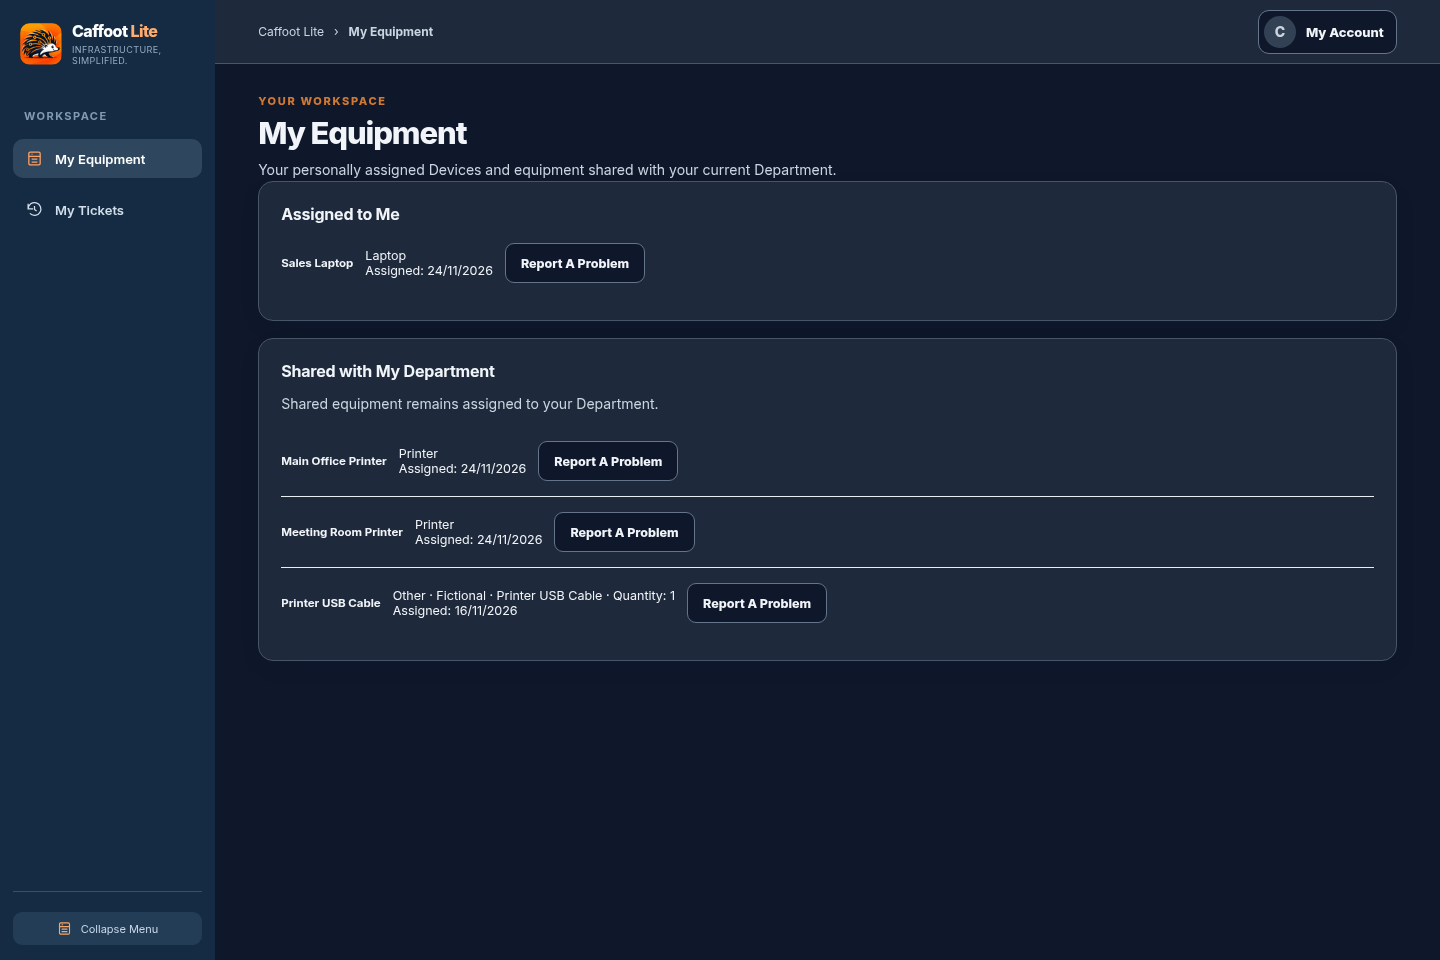
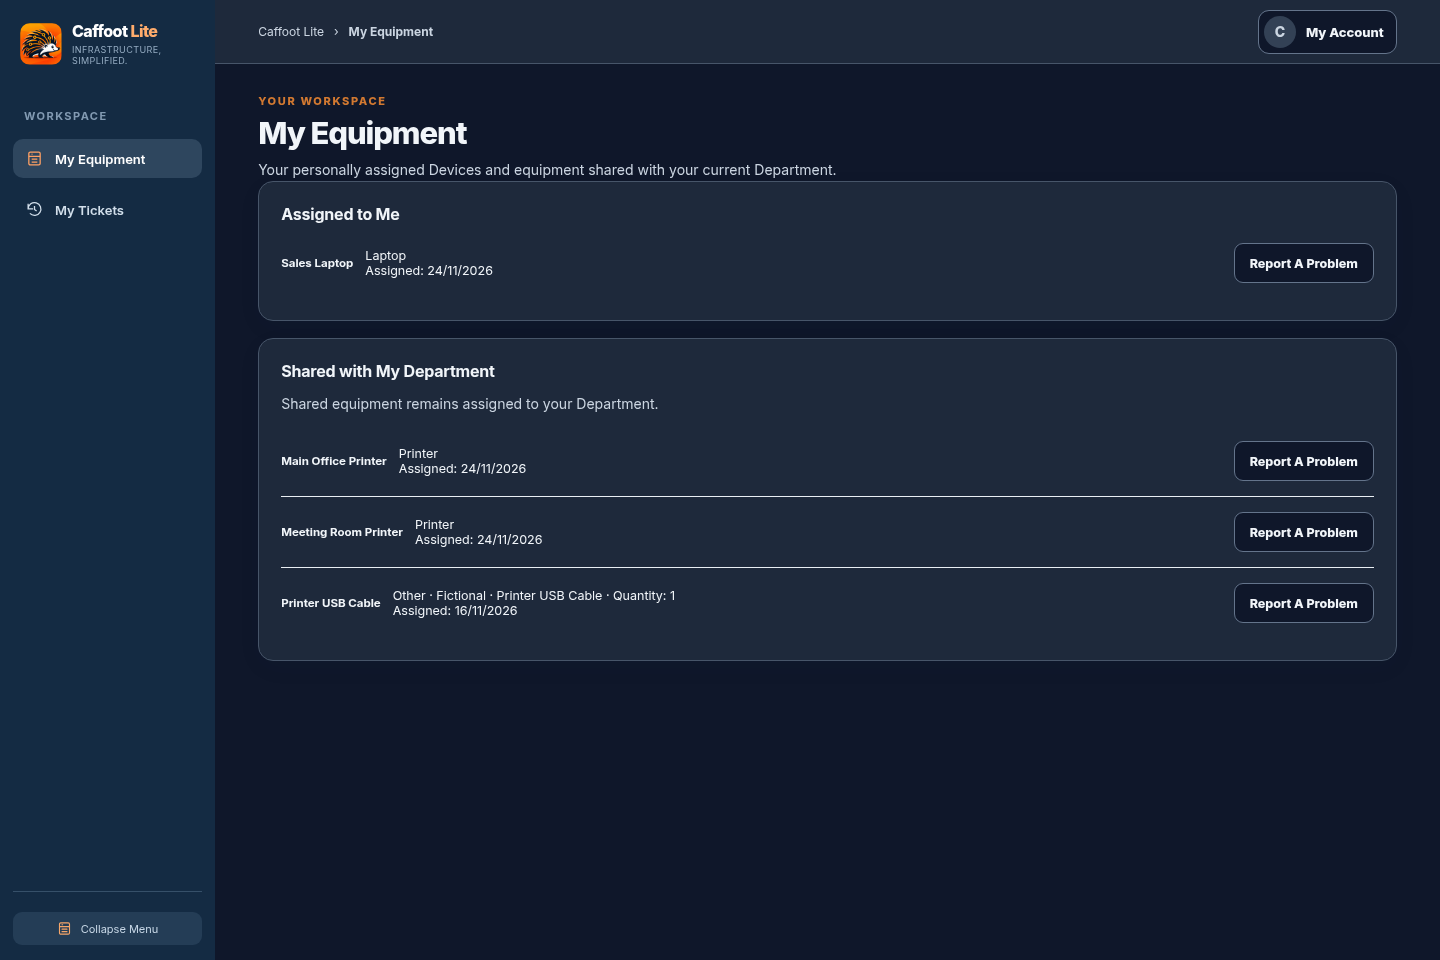
Refresh My Equipment screenshots and provenance

diff --git a/docs/development-handovers/evidence/stage-6-4/README.md b/docs/development-handovers/evidence/stage-6-4/README.md
@@ -6,6 +6,8 @@ The review starts from `957969ba1b44465472765e47f91117ca7c87d177` on `milestone-
 
 The accessory custody follow-up refreshed Department Details Equipment, My Equipment and Department Tickets and added the accessory confidentiality warning. All 16 captures in that batch use [`e3676087588e1f5c9f96f1a1012ee8841ff918ea`](https://github.com/Caffoot/Caffoot-Lite/commit/e3676087588e1f5c9f96f1a1012ee8841ff918ea).
 
+The four My Equipment captures now use [`5db6483cdf5c7811f53e50fd6235f2233ad6d24c`](https://github.com/Caffoot/Caffoot-Lite/commit/5db6483cdf5c7811f53e50fd6235f2233ad6d24c). The mobile captures include the full page so every **Report A Problem** button is visible. [Owner layout approval](https://github.com/Caffoot/Caffoot-Lite/pull/447#issuecomment-7131740887)
+
 ## Application Screenshots
 
 The captures use the running Caffoot Lite application over loopback HTTPS in Chromium 156.0.8078.79. The test seeds fictional accounts, Departments, Devices and a printer ticket raised before Sales shares the Device. The accessory follow-up includes a USB cable originally issued to Accounts and explicitly associated with that printer. It uses the real UI to raise a ticket for the cable as a Sales employee. Desktop viewports are 1440 × 960 and mobile viewports are 390 × 844. Department Tickets uses full-page capture so the ticket list appears on mobile. [Capture manifest with source and image hashes](capture-manifest.json) · [Chromium test](../../../../tests/shared-devices-interface.cjs) · [Frozen design references](https://github.com/Caffoot/Caffoot-Lite/issues/431#issuecomment-7129171072)
@@ -43,6 +45,8 @@ node tests/shared-devices-interface.cjs
 The focused follow-up Chromium check verified both history headings, table columns and record order. The four affected captures were refreshed. All 36 focused backend tests passed, including the existing exact role migration assertion. Schema 29 skips empty inserts that would otherwise initialise zero-valued SQLite sequence entries, while preserving the original high-water marks. [Owner visual correction](https://github.com/Caffoot/Caffoot-Lite/pull/447#issuecomment-7130128114)
 
 The accessory follow-up passed 72 focused backend tests. Live HTTP and loopback SMTP covered original Department and custody stock recipients, historical IT-only tickets, current-custody ticket access, replies, direct attachments, queued delivery after removal and re-addition, and the effect of stock return. Standalone assets and canonical Device tickets served as controls. The focused Chromium run checked both accessory ticket entry points and captured all four affected views. [Live regression tests](../../../../tests/test_associated_ticket_custody.py) · [Accessory custody decision](https://github.com/Caffoot/Caffoot-Lite/issues/431#issuecomment-7131158752) · [Historical privacy decision](https://github.com/Caffoot/Caffoot-Lite/issues/431#issuecomment-7131342057)
+
+The My Equipment layout check verified that every **Report A Problem** button meets the right edge of its row in both cards at widths of 1440, 390 and 320 pixels. It also checked for overflow and opened the ticket form from a personal Device, a Department Device and an associated accessory. The Department warning and equipment preselection continued to work. [Chromium check](../../../../tests/shared-devices-interface.cjs)
 
 ## Remaining Acceptance
 
